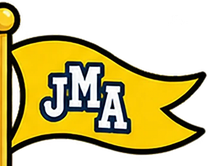
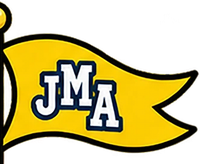
I have addressed the issues:
- **Flag:** The pole is now properly re-cut so it stays within the base art, eliminating the seam that was showing. The motion has been adjusted to a gentle skew/stretch pinned at the pole, with no rotation, preventing the edge from separating.

- **Title lettering:** To ensure legibility on any sleeve, two measures are applied:
  1. **Auto-contrast outline**, always active. Light letters (white, yellow, etc.) have a navy outline and shadow; dark letters have a white outline, making it easy for kids to read.
  2. **"On a sticker" plate (default).** The title appears on a slightly tilted label—a navy plate for light letters or a white plate for dark letters—similar to a real record sticker. Kids can choose a "Straight on" option for outlined text only if they prefer.

I performed stress tests on challenging color combinations like white on yellow stars, yellow on white dots, navy on dark checkers, and green on pink waves. Each title remains legible in these cases.

Please review these changes and let me know if any further adjustments are needed, or if you'd like me to continue with a more comprehensive review and testing.

Emergent-Commit-Key: a068d660907fb9cdd7933c77b6313dc50f01d8e1d79a0575386eb4ee3f1f4310

Changed region(s): [[0.0, 0.0, 0.69, 1.0], [0.69, 0.4268, 1.0, 0.9451]]

diff --git a/frontend/src/components/CoverDesigner.js b/frontend/src/components/CoverDesigner.js
@@ -33,6 +33,10 @@ export const TITLE_FONTS = [
   { id: 'block',   name: 'Block',   family: "'Fredoka', sans-serif", weight: 700, tracking: '0.14em', upper: true },
 ];
 export const TITLE_COLORS = ['#FFFFFF', '#0B1F3A', '#FFCC00', '#FF2D85', '#1E9BFF', '#34A853', '#FF9500', '#8E5BFF'];
+// Light letters get a navy outline/plate, dark letters a white one — so the title reads on any sleeve.
+const isLight = (hex) => { const n = parseInt(hex.slice(1), 16); return (0.299 * (n >> 16) + 0.587 * ((n >> 8) & 255) + 0.114 * (n & 255)) > 150; };
+const outline = (hex) => { const o = isLight(hex) ? 'rgba(11,31,58,0.95)' : 'rgba(255,255,255,0.95)'; return [[-1,-1],[1,-1],[-1,1],[1,1],[0,-1.3],[0,1.3],[-1.3,0],[1.3,0]].map(([x, y]) => `${x}px ${y}px 0 ${o}`).join(', ') + (isLight(hex) ? ', 0 3px 0 rgba(11,31,58,0.9)' : ', 0 3px 0 rgba(255,255,255,0.9)'); };
+const plateStyle = (hex) => (isLight(hex) ? { background: 'rgba(11,31,58,0.88)', border: '2px solid rgba(255,255,255,0.9)' } : { background: 'rgba(255,255,255,0.92)', border: '2px solid rgba(11,31,58,0.9)' });
 export const SLOTS = [
   { id: 'main', name: 'Big' },
   { id: 'tl',   name: 'Top left' },
@@ -77,7 +81,7 @@ export function Sleeve({ cover, avatar, kind, title, className = '', activeSlot,
       {slot('tl', 'left-1.5 top-1.5 w-[30%] h-[30%] items-center justify-center', 'h-full w-full object-contain')}
       {slot('br', 'right-1.5 bottom-1.5 w-[30%] h-[30%] items-center justify-center', 'h-full w-full object-contain')}
       {tf && title && (
-        <span data-testid="sleeve-title" className="absolute left-[6%] right-[26%] top-[7%] pointer-events-none leading-[1.05] break-words" style={{ fontFamily: tf.family, fontWeight: tf.weight, letterSpacing: tf.tracking, textTransform: tf.upper ? 'uppercase' : 'none', color: cover.title.color, fontSize: `clamp(8px, ${title.length > 14 ? 9 : 12}cqw, 40px)`, textShadow: cover.title.color === '#FFFFFF' || cover.title.color === '#FFCC00' ? '0 1px 0 rgba(2,36,63,0.7), 0 0 3px rgba(2,36,63,0.5)' : '0 1px 0 rgba(255,255,255,0.6)', containerType: 'normal' }}>{title}</span>
+        <span data-testid="sleeve-title" data-plate={cover.title.plate ? 'true' : 'false'} className="absolute left-[6%] right-[26%] top-[7%] pointer-events-none leading-[1.05] break-words" style={{ fontFamily: tf.family, fontWeight: tf.weight, letterSpacing: tf.tracking, textTransform: tf.upper ? 'uppercase' : 'none', color: cover.title.color, fontSize: `clamp(8px, ${title.length > 14 ? 9 : 12}cqw, 40px)`, textShadow: outline(cover.title.color), ...(cover.title.plate ? { ...plateStyle(cover.title.color), borderRadius: '0.6em', padding: '0.2em 0.45em', width: 'fit-content', maxWidth: '68%', transform: 'rotate(-3deg)', transformOrigin: 'left top' } : {}) }}>{title}</span>
       )}
       <span className="absolute left-1.5 bottom-1.5 text-[9px] font-black uppercase px-1.5 rounded-full bg-white" style={{ color: 'var(--jma-dark)', border: '2px solid var(--jma-dark)' }}>{kind}</span>
     </div>
@@ -128,7 +132,7 @@ export default function CoverDesigner({ track, cover: saved, avatar, onSave, onC
   const setSticker = (v) => setCover((c) => ({ ...c, stickers: { ...c.stickers, [slot]: v } }));
   const shuffle = () => {
     const ids = COLLECTION_STICKERS.filter((s) => s.icon).map((s) => s.id);
-    set({ color: pick(SLEEVES), pattern: pick(PATTERNS).id, frame: pick(FRAMES).id, label: pick(LABELS), stickers: { main: pick(['me', 'me', ...ids]), tl: pick([null, ...ids]), br: pick([null, ...ids]) }, title: { font: pick(TITLE_FONTS).id, color: pick(TITLE_COLORS) } });
+    set({ color: pick(SLEEVES), pattern: pick(PATTERNS).id, frame: pick(FRAMES).id, label: pick(LABELS), stickers: { main: pick(['me', 'me', ...ids]), tl: pick([null, ...ids]), br: pick([null, ...ids]) }, title: { font: pick(TITLE_FONTS).id, color: pick(TITLE_COLORS), plate: Math.random() < 0.6 } });
   };
   return (
     <motion.div data-testid="cover-designer" className="fixed inset-0 z-[80] flex items-center justify-center p-2 sm:p-3" style={{ background: 'rgba(2,36,63,0.7)' }} initial={{ opacity: 0 }} animate={{ opacity: 1 }} exit={{ opacity: 0 }} onClick={onClose}>
@@ -158,14 +162,21 @@ export default function CoverDesigner({ track, cover: saved, avatar, onSave, onC
                   <div className="text-[11px] font-black uppercase mb-1" style={{ color: '#4B5668' }}>Lettering</div>
                   <div className="grid grid-cols-5 gap-2 mb-3" data-testid="cover-title-fonts">
                     <button type="button" data-testid="cover-title-none" aria-pressed={!cover.title} onClick={() => set({ title: null })} className="rounded-xl h-14 flex flex-col items-center justify-center gap-0.5 text-[10px] font-black" style={{ background: '#F6F8FB', color: '#4B5668', ...sel(!cover.title) }}><X className="w-5 h-5" strokeWidth={3} />None</button>
-                    {TITLE_FONTS.map((f) => <button key={f.id} type="button" data-testid={`cover-title-font-${f.id}`} aria-pressed={cover.title?.font === f.id} onClick={() => set({ title: { font: f.id, color: cover.title?.color || '#FFFFFF' } })} className="rounded-xl h-14 flex flex-col items-center justify-center overflow-hidden" style={{ background: cover.color, ...sel(cover.title?.font === f.id) }}>
+                    {TITLE_FONTS.map((f) => <button key={f.id} type="button" data-testid={`cover-title-font-${f.id}`} aria-pressed={cover.title?.font === f.id} onClick={() => set({ title: { plate: true, ...cover.title, font: f.id, color: cover.title?.color || '#FFFFFF' } })} className="rounded-xl h-14 flex flex-col items-center justify-center overflow-hidden" style={{ background: cover.color, ...sel(cover.title?.font === f.id) }}>
                       <span className="leading-none" style={{ fontFamily: f.family, fontWeight: f.weight, letterSpacing: f.tracking, textTransform: f.upper ? 'uppercase' : 'none', fontSize: 15, color: cover.title?.color || '#FFFFFF', textShadow: '0 1px 0 rgba(2,36,63,0.7)' }}>Abc</span>
                       <span className="text-[9px] font-black text-white" style={{ textShadow: '0 1px 0 var(--jma-dark), 0 0 3px var(--jma-dark)' }}>{f.name}</span>
                     </button>)}
                   </div>
                   <div className="text-[11px] font-black uppercase mb-1" style={{ color: '#4B5668' }}>Letter color</div>
-                  <Swatches list={TITLE_COLORS} value={cover.title?.color} onPick={(color) => set({ title: { font: cover.title?.font || 'bubbly', color } })} prefix="cover-title-color" />
-                  <div className="text-[10px] font-bold mt-2 flex items-center gap-1" style={{ color: '#4B5668' }}><Type className="w-3 h-3" strokeWidth={3} /> Prints "{track.name}" on the sleeve.</div>
+                  <Swatches list={TITLE_COLORS} value={cover.title?.color} onPick={(color) => set({ title: { plate: true, ...cover.title, font: cover.title?.font || 'bubbly', color } })} prefix="cover-title-color" />
+                  {cover.title && (
+                    <div className="flex gap-2 mt-3" data-testid="cover-title-plates">
+                      {[{ v: true, name: 'On a sticker' }, { v: false, name: 'Straight on' }].map((o) => (
+                        <button key={String(o.v)} type="button" data-testid={`cover-title-plate-${o.v ? 'on' : 'off'}`} aria-pressed={!!cover.title.plate === o.v} onClick={() => set({ title: { ...cover.title, plate: o.v } })} className="flex-1 py-1.5 rounded-full text-[11px] font-black" style={{ background: !!cover.title.plate === o.v ? 'var(--jma-dark)' : '#F6F8FB', color: !!cover.title.plate === o.v ? 'white' : 'var(--jma-dark)', border: '2px solid var(--jma-dark)' }}>{o.name}</button>
+                      ))}
+                    </div>
+                  )}
+                  <div className="text-[10px] font-bold mt-2 flex items-center gap-1" style={{ color: '#4B5668' }}><Type className="w-3 h-3" strokeWidth={3} /> Prints "{track.name}" on the sleeve. Letters always get a contrasting outline.</div>
                 </div>
               )}
               {tab === 'frame' && (

diff --git a/frontend/src/pages/CampusMapPage.js b/frontend/src/pages/CampusMapPage.js
@@ -210,8 +210,8 @@ function AcademyFlair() {
   const whirl = (e) => { e.stopPropagation(); setSpin((n) => n + 1); const a = new Audio(encodeURI('assets/audio/sfx-twinkle.mp3')); a.volume = 0.4; a.play().catch(() => {}); };
   return (
     <>
-      <motion.img src="assets/plaza/academy-flag.png" alt="" draggable={false} aria-hidden="true" data-testid="academy-flag" className="absolute pointer-events-none" style={{ left: '80.05%', top: '34.5%', width: '17.35%', zIndex: 2, transformOrigin: '0% 20%' }}
-        animate={{ rotate: [0, 2.5, -1.5, 2, 0], skewY: [0, -3, 2, -2, 0], scaleX: [1, 0.97, 1, 0.98, 1] }} transition={{ repeat: Infinity, duration: 2.6, ease: 'easeInOut' }} />
+      <motion.img src="assets/plaza/academy-flag.png" alt="" draggable={false} aria-hidden="true" data-testid="academy-flag" className="absolute pointer-events-none" style={{ left: '80.75%', top: '34.6%', width: '16.65%', zIndex: 2, transformOrigin: '0% 50%' }}
+        animate={{ skewY: [0, -1.2, 0.8, -0.6, 0], scaleX: [1, 0.988, 1, 0.993, 1] }} transition={{ repeat: Infinity, duration: 3.2, ease: 'easeInOut' }} />
       <motion.button type="button" data-testid="academy-vane" aria-label="Spin the weathervane" onClick={whirl} className="absolute p-0 border-0 bg-transparent cursor-pointer" style={{ left: '50.15%', top: '9.25%', width: '11.5%', zIndex: 3 }} whileHover={{ scale: 1.06 }}>
         <motion.img key={spin} src="assets/plaza/academy-vane.png" alt="" draggable={false} className="block w-full h-auto" style={{ transformOrigin: '50% 72%' }}
           animate={spin ? { rotateY: [0, 1080], scaleX: [1, 1.1, 1] } : { rotateY: [0, 25, -20, 0] }} transition={spin ? { duration: 1.4, ease: [0.2, 0.8, 0.3, 1] } : { repeat: Infinity, duration: 6, ease: 'easeInOut' }} />

diff --git a/memory/export_academy_flag.py b/memory/export_academy_flag.py
@@ -14,9 +14,9 @@ cols = reg.sum(axis=0)
 pole_x = 1580 + int(np.argmax(cols))
 print('pole x', pole_x)
 # cloth bbox: alpha right of pole+12
-sub = a[480:792, pole_x+14:2000, 3] > 10
+sub = a[480:792, pole_x+26:2000, 3] > 10
 ys, xs = np.where(sub)
-fx0, fy0, fx1, fy1 = pole_x+14+xs.min()-2, 480+ys.min()-2, pole_x+14+xs.max()+3, 480+ys.max()+3
+fx0, fy0, fx1, fy1 = pole_x+26+xs.min(), 480+ys.min()-2, pole_x+26+xs.max()+3, 480+ys.max()+3
 print('flag bbox', fx0, fy0, fx1, fy1, pct(fx0, fy0, fx1, fy1))
 flag = src.crop((fx0, fy0, fx1, fy1))
 # weathervane: everything above the spire tip. find roof top y: first row where alpha spans > 150px wide

diff --git a/memory/PRD.md b/memory/PRD.md
@@ -514,3 +514,4 @@ Beta tester (Rose) feedback pass + a new Live channel. Respond in English.
 - Plaza/streets: host sprites whose character matches the chosen avatar are hidden (`hostCharacter()` in CampusMapPage; sharky→finn, dr-jellybone→doctor); greeting shout picks the first visible host. Chowda moved to the right of JMAtv (xs[6]) and hidden when the kid IS Chowda.
 - Plaza Academy building replaced with user art → public/assets/plaza/academy.webp (1200px, from "The Academy Building.webp"); size 1.5; Cuckoo anchored to the tower oval window (left 60.3%, top 29.3%, 7%x7%). Old academy.png kept on disk but unused.
 - Four features (June 2026): ChalkScrolls (AcademyPage) print quests[0..2] on the two chalk scrolls + treasure map with ✓/strike when done; AcademyPortal `avatar` prop → kid's Jelly swims through the archway every ~16s; plaza AcademyFlair (CampusMapPage) = flag + weathervane cut from the building art (public/assets/plaza/academy-flag.png / academy-vane.png via /app/memory/export_academy_flag.py; base academy.webp has holes) — flag ripples, vane idles and spins 3 turns on tap without entering; CoverDesigner "Title" tab: TITLE_FONTS (bubbly/round/comic/block) + TITLE_COLORS, cover.title {font,color} prints track name on Sleeve via `title` prop (used in MyAlbum grid, Easels, designer).
+- Title legibility: letters always get an auto-contrast 8-way outline (navy for light letters, white for dark); optional "sticker plate" (cover.title.plate, default on) adds a tilted contrasting label behind the title. Flag recut without the pole sliver (academy-flag.png, left 80.75%) and flutter reduced to skewY ±1.2° / scaleX 0.99 with origin at the pole.
